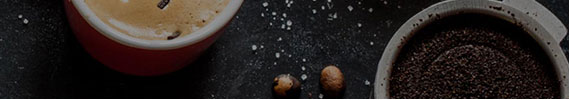
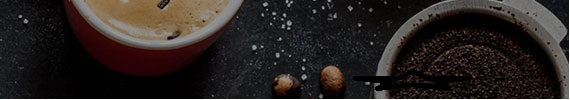
login form update

Changed region(s): [[0.6263, 0.69, 0.8351, 0.93]]

diff --git a/Client/js/script.js b/Client/js/script.js
@@ -1,36 +1,60 @@
-$(document).ready(function () {
+ function order_item_click_handler(item_name) {
+     $.ajax({
+         type: "POST",
+         url: "http://localhost:3001/order/",
+         data: JSON.stringify({
+             menuItemId: item_name
+         }),
+         dataType: "json",
+         contentType: "application/json; charset=utf-8",
 
-    var panel_grid = $('.active-menu');
+     });
 
-    $.ajax({
-        url: "http://localhost:3001/menu",
-        success: function (response) {
+ }
 
+ $(document).ready(function () {
 
-            $.each(response.categories, function (i) {
+     var panel_grid = $('.active-menu');
 
-                $('<div class="panel-grid-cell">').html(
-                    '<div class="list-menu">' +
-                    '<h3>' + response.categories[i].name + '</h3>' + '</div>' +
-                    ' <ul class="list-menu-content ' + response.categories[i].name + '"/>').appendTo(panel_grid);
-
-                var list = $('.' + response.categories[i].name);
-                $.each(response.categories[i].menu, function (j) {
-                    console.log(list);
-
-
-                    $('<li class="list-product list-product-active"/>')
-                        .html('<div class="list-product-title">' + '<span class="dish">' + response.categories[i].menu[j].name + '</span>' + '<span class="dotted"></span>' + '</div>' +
-                            '<div class="list-product-desc">' + '<p class="description">' + response.categories[i].menu[j].description + '</p>' + '</div>' +
-                            '<div class="list-product-price">' + '<span class="price">' + response.categories[i].menu[j].price + '</span>' + '</div>' +
-                            '<div class="clear" />' +
-                            '<span class="order-product">заказать</span>').appendTo(list);
+     $.ajax({
+         url: "http://localhost:3001/menu",
+         success: function (response) {
 
 
-                });
-            });
+             $.each(response.categories, function (i) {
 
-        }
-    });
+                 var panel_grid_cell = $('<div class="panel-grid-cell">').html(
+                     '<div class="list-menu">' +
+                     '<h3>' + response.categories[i].name + '</h3>' + '</div>' +
+                     ' <ul class="list-menu-content "/>')
 
-});
+                 .appendTo(panel_grid);
+
+                 var back_img = panel_grid_cell.find('.list-menu').css("background-image", "url(" + response.categories[i].image + ")");
+
+                 var list = panel_grid_cell.find('ul');
+
+                 $.each(response.categories[i].menu, function (j) {
+
+                     var current_item = $('<li class="list-product list-product-active"/>')
+                         .html('<div class="list-product-title">' + '<span class="dish">' + response.categories[i].menu[j].name + '</span>' + '<span class="dotted"></span>' + '</div>' +
+                             '<div class="list-product-desc">' + '<p class="description">' + response.categories[i].menu[j].description + '</p>' + '</div>' +
+                             '<div class="list-product-price">' + '<span class="price">' + response.categories[i].menu[j].price + '</span>' + '</div>' +
+                             '<div class="clear" />' +
+                             '<span class="order-product">заказать</span>').appendTo(list);
+
+                     var item_name = response.categories[i].menu[j].name;
+                     var current_button = current_item.find(".order-product");
+                     current_button.click(function () {
+
+                         order_item_click_handler(item_name)
+                     });
+
+                 });
+             });
+
+
+         }
+     });
+
+ });

diff --git a/Client/menu.html b/Client/menu.html
@@ -21,7 +21,7 @@
     <script>
         window.jQuery || document.write('<script src="node_modules/jquery/dist/jquery.min.js"><\/script>')
     </script>
-
+    <script src="js/login.js"></script>
     <script src="js/script.js"></script>
 
 </head>
@@ -55,15 +55,19 @@
                         </ul>
                     </li>
                 </ul>
-                <form id="navbar" class="navbar-form navbar-right">
+                <form name="login-form" id="navbar" class="navbar-form navbar-right login" method="post">
                     <div class="form-group">
-                        <input type="text" placeholder="Email" class="form-control">
+                        <input type="text" placeholder="yourname@dev-pro.net" class="form-control" required>
                     </div>
                     <div class="form-group">
-                        <input type="password" placeholder="Password" class="form-control">
+                        <input type="password" placeholder="password" class="form-control" required>
                     </div>
-                    <button type="submit" class="btn btn-success">Sign in</button>
+                    <button type="submit" class="btn btn-success signin">Sign in</button>
                 </form>
+                <div class="user-profile">
+                    <a class="navbar-brand" href="#">Profile Page</h1>
+                    <a href="/logout" class="btn btn-warning logout">Logout</a>
+                </div>
             </div>
             <!--/.navbar-collapse -->
         </div>
@@ -82,6 +86,24 @@
 -->
     <div class="container  site-content">
         <div class="row">
+            <!-- LOCAL INFORMATION -->
+            <div class="col-sm-6 local-info">
+                <div class="well">
+                    <h3>Local</h3>
+
+                    <p>
+                        <strong>id</strong>:
+                        <%= user._id %>
+                            <br>
+                            <strong>email</strong>:
+                            <%= user.local.email %>
+                                <br>
+                                <strong>password</strong>:
+                                <%= user.local.password %>
+                    </p>
+
+                </div>
+            </div>
             <main class="site-main col-sm-12 full-width">
                 <div class="panel-grid">
                     <div class="box-icon">

diff --git a/Server/services/menu.provider (Конфликтующая копия с компьютера iMac 2016-10-22).js b/Server/services/menu.provider (Конфликтующая копия с компьютера iMac 2016-10-22).js
@@ -4,7 +4,7 @@ module.exports = {
             categories: [
                 {
                     name: "soup",
-                    image: "img/bg-food.jpg",
+                    image: "\img\bg-food.jpg",
                     menu: [
                         {
                             name: "Английский крем-суп",
@@ -30,7 +30,7 @@ module.exports = {
 
                 }, {
                     name: "burger",
-                    image: "img/bg-food2.jpg",
+                    image: "\img\bg-food.jpg",
                     menu: [
                         {
                             name: "Burger с фалафелем и харриса",
@@ -49,8 +49,8 @@ module.exports = {
                         }
                     ]
                 }, {
-                    name: "салат меню",
-                    image: "img/bg-food.jpg",
+                    name: "salad",
+                    image: "\img\bg-food.jpg",
                     menu: [
                         {
                             name: "Салат «Греческий»",

diff --git a/Client/style.css b/Client/style.css
@@ -90,7 +90,6 @@ body {
 }
 
 .list-menu {
-    background-image: url(img/bg-food.jpg);
     color: #fff;
     text-align: center;
     padding: 30px;
@@ -178,4 +177,12 @@ body {
     padding: 0 10px;
     font-size: 13px;
     font-weight: 700;
+}
+
+.logout {
+    margin-top: 8px
+}
+
+.local-info {
+    margin-top: 10px;
 }

diff --git a/Client/js/login.js b/Client/js/login.js
@@ -1,0 +1,11 @@
+ $(document).ready(function () {
+     $(".user-profile").hide();
+     $(".local-info").hide();
+
+     $(".signin").click(function () {
+         $(".login").hide();
+         $(".user-profile").show();
+         $(".local-info").show();
+     });
+
+ });

diff --git a/Server/public/stylesheets/style.css b/Server/public/stylesheets/style.css
@@ -1,8 +1,8 @@
 body {
-  padding: 50px;
-  font: 14px "Lucida Grande", Helvetica, Arial, sans-serif;
+    padding: 50px;
+    font: 14px "Lucida Grande", Helvetica, Arial, sans-serif;
 }
 
 a {
-  color: #00B7FF;
+    color: #00B7FF;
 }
